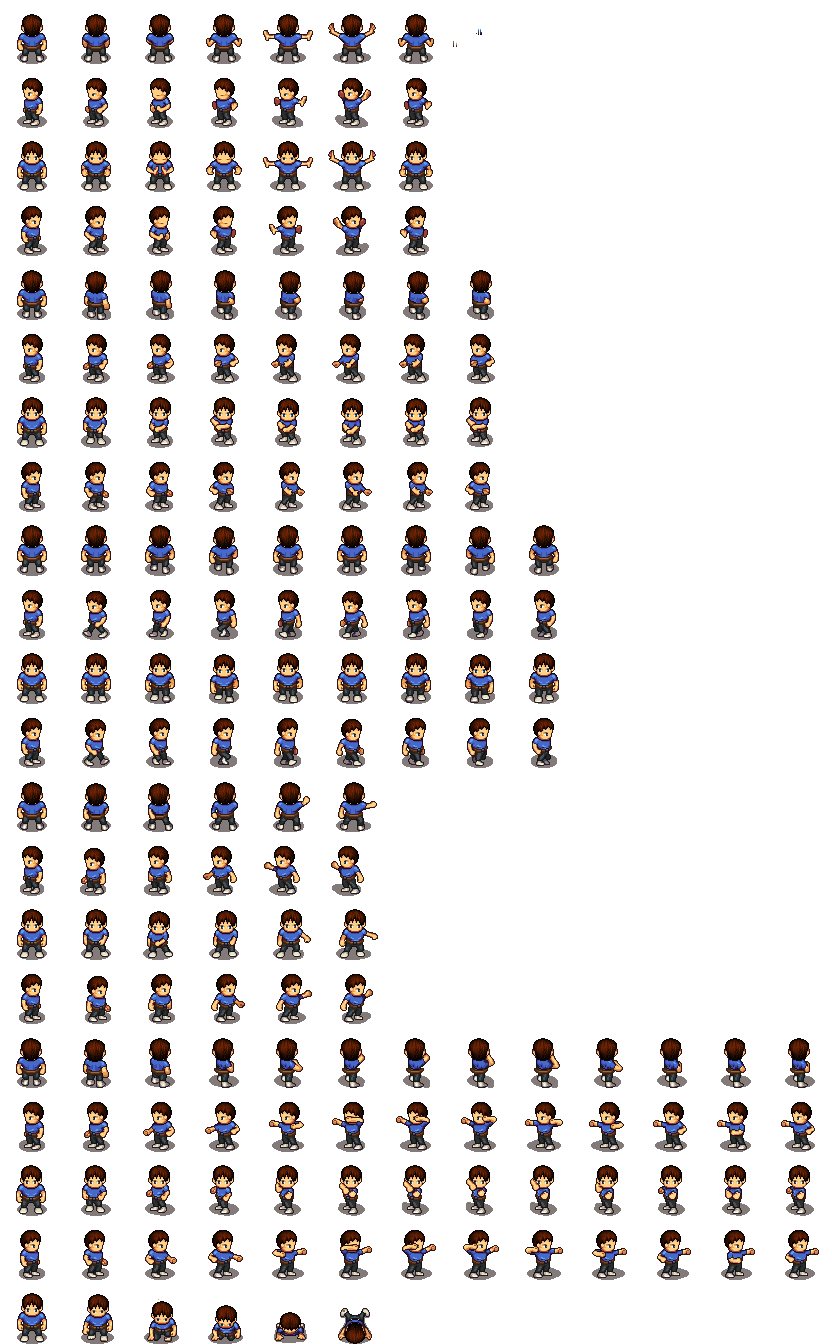
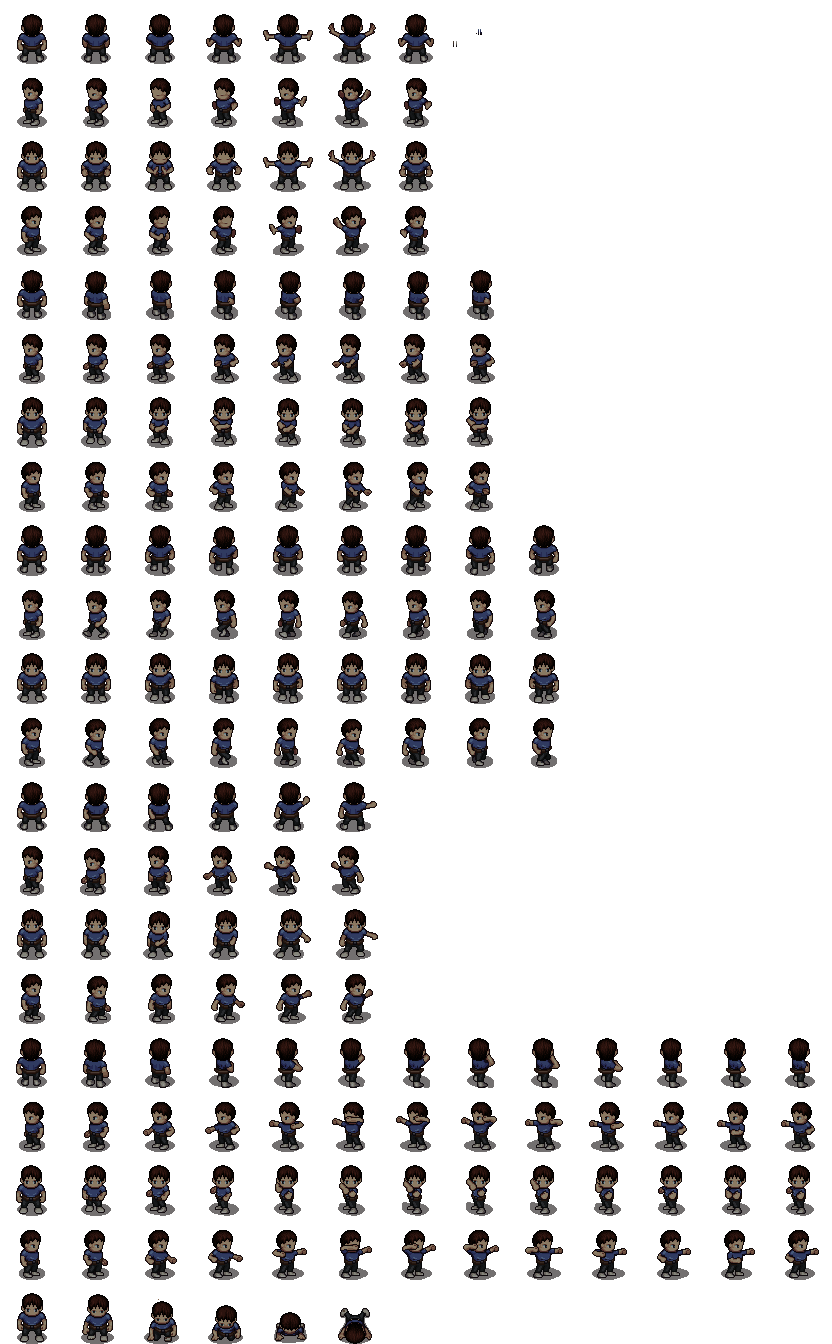
Fixed timing with a promise, As well as adding A new Wall sprite and adjusting the saturation of the player model

diff --git a/src/js/Rooms.js b/src/js/Rooms.js
@@ -6,61 +6,77 @@ const WAITTIME = ((1/FADERATE)/60)*1000; // gives the number of frames it will t
 
 // Callback function, simply determines whether it is the player ob colliding with door tile or not
 function upDoorCallback() {
-   fadeScreenNow();
-    playerMovement.moveSpeed = 0;
-   if(doorCreak.isPlaying() == false) doorCreak.play();
     if(!ISWAITING){
         ISWAITING = true;
-      setTimeout(() => {
-       moveCamera("up");
-       movePlayer("up");
-       ISWAITING = false;
-       playerMovement.moveSpeed = PLAYERSPEED;
-      },WAITTIME)
-  }
+        fadeScreenNow();
+        playerMovement.moveSpeed = 0;
+        if(doorCreak.isPlaying() == false) doorCreak.play();
+        waitForOpacityCondition(1000) // Wait for up to 5 seconds
+          .then(() => {
+            moveCamera("up");
+            movePlayer("up");
+            ISWAITING = false;
+            playerMovement.moveSpeed = PLAYERSPEED;
+          })
+          .catch((error) => {
+            console.error(error.message);
+          });
+    }
 }
 
 function rightDoorCallback() {
-   fadeScreenNow();
-   playerMovement.moveSpeed = 0;
-   if(doorCreak.isPlaying() == false) doorCreak.play();
-   if(!ISWAITING){
-         ISWAITING = true;
-       setTimeout(() => {
-        moveCamera("right");
-        movePlayer("right");
-        ISWAITING = false;
-        playerMovement.moveSpeed = PLAYERSPEED;
-       },WAITTIME)
-   }
+    if(!ISWAITING){
+        ISWAITING = true;
+        fadeScreenNow();
+        playerMovement.moveSpeed = 0;
+        if(doorCreak.isPlaying() == false) doorCreak.play();
+        waitForOpacityCondition(1000) // Wait for up to 5 seconds
+          .then(() => {
+            moveCamera("right");
+            movePlayer("right");
+            ISWAITING = false;
+            playerMovement.moveSpeed = PLAYERSPEED;
+          })
+          .catch((error) => {
+            console.error(error.message);
+          });
+    }
 }
 function leftDoorCallback() {
-    fadeScreenNow();
-    playerMovement.moveSpeed = 0;
-    if(doorCreak.isPlaying() == false) doorCreak.play();
     if(!ISWAITING){
-          ISWAITING = true;
-        setTimeout(() => {
-         moveCamera("left");
-         movePlayer("left");
-         ISWAITING = false;
-        playerMovement.moveSpeed = PLAYERSPEED;
-        },WAITTIME)
+        ISWAITING = true;
+        fadeScreenNow();
+        playerMovement.moveSpeed = 0;
+        if(doorCreak.isPlaying() == false) doorCreak.play();
+        waitForOpacityCondition(1000) // Wait for up to 5 seconds
+          .then(() => {
+            moveCamera("left");
+            movePlayer("left");
+            ISWAITING = false;
+            playerMovement.moveSpeed = PLAYERSPEED;
+          })
+          .catch((error) => {
+            console.error(error.message);
+          });
     }
 }
 function downDoorCallback() {
-    fadeScreenNow();
-    playerMovement.moveSpeed = 0;
-    if(doorCreak.isPlaying() == false) doorCreak.play();
     if(!ISWAITING){
         ISWAITING = true;
-      setTimeout(() => {
-       moveCamera("down");
-       movePlayer("down");
-       ISWAITING = false;
-       playerMovement.moveSpeed = PLAYERSPEED;
-      },WAITTIME)
-  }
+        fadeScreenNow();
+        playerMovement.moveSpeed = 0;
+        if(doorCreak.isPlaying() == false) doorCreak.play();
+        waitForOpacityCondition(1000) // Wait for up to 5 seconds
+          .then(() => {
+            moveCamera("down");
+            movePlayer("down");
+            ISWAITING = false;
+            playerMovement.moveSpeed = PLAYERSPEED;
+          })
+          .catch((error) => {
+            console.error(error.message);
+          });
+    }
 }
 
 // Class for managing the room layout

diff --git a/src/js/Camera.js b/src/js/Camera.js
@@ -2,6 +2,7 @@ const FADERATE = 0.025;
 const FADELAYER = 3;
 let HASFADEDIN = true;
 let HASFADEDOUT = true;
+let OPACITYEQUALSONE = false;
 function makeCameraFollowPlayer(){
     camera.x = player.x;
 	camera.y = player.y;
@@ -21,7 +22,6 @@ function createFadeScreen(){
 //Run constantly, If HASFADEDIN and HASFADEDOUT are false it will Fade the fadeScreen in over eveything. 
 // HASFADEDIN and HASFADEDOUT shouldn't be changed manually, use the fadeScreenNow function to reset them.
 function fadeInAndOut(ScreenSprite){
-    if (kb.presses('.')) {HASFADEDIN = false; HASFADEDOUT = false;}
     if (!HASFADEDIN){
         HASFADEDIN = fadeIn(ScreenSprite);
     }
@@ -37,6 +37,7 @@ function fadeIn(object){
     return false;
     }
     else {
+        OPACITYEQUALSONE = true;
         object.opacity = 1;
         return true;
     }
@@ -47,6 +48,7 @@ function fadeIn(object){
 function fadeOut(object){
     if(object.opacity >= 0){
         object.opacity = Math.max(object.opacity - FADERATE, 0);
+        OPACITYEQUALSONE = false;
         return false;
     }
     else {
@@ -59,7 +61,6 @@ function fadeOut(object){
 
 //Moves the camera in the direction specified. takes "up", "down", "left", "right" as arguments.
 function moveCamera(direction){
-    console.log("Moving camera");
     if (direction == "up") camera.y -= 1080;
     else if (direction == "down") camera.y += 1080;
     else if (direction == "left") camera.x -= 1920;

diff --git a/src/js/main.js b/src/js/main.js
@@ -5,3 +5,26 @@ function createMenuScreen() {
   object.collider = 'none';
   return object;
 }
+
+function waitForOpacityCondition(timeout) {
+    return new Promise((resolve, reject) => {
+      const startTime = Date.now();
+  
+      function checkCondition() {
+        // console.log("this is the Opacity: " + OPACITYEQUALSONE + "\n"+ "this is the variable: " + variable);
+        if (OPACITYEQUALSONE === true) {
+          resolve(OPACITYEQUALSONE);
+        } else if (Date.now() - startTime >= timeout) {
+          reject(new Error('Timeout waiting for condition'));
+        } else {
+          setTimeout(checkCondition, 1); // Adjust the interval as needed
+        }
+      }
+  
+      checkCondition();
+    });
+  }
+  
+  // Example usage
+
+  

diff --git a/sketch.js b/sketch.js
@@ -9,7 +9,7 @@ let MAINMENULOADED = true;
 let menuScreen;
 
 function preload() {
-	brickImage = loadImage('./assets/sand-brick-tileset-texture.png');
+	brickImage = loadImage('./assets/WallRoughDraft.png');
 	floorBoardImage = loadImage("assets/floortiles.png");
 	mainMenuImage = loadImage("assets/Menu_Screen_for_a_pixelated_Horror_game_named_Blink_Set_in_a_Haunted_Mansion.png")
 	doorImage=loadImage("assets/Door.png");
@@ -52,7 +52,6 @@ function draw() {
 	}
 	if(MAINMENULOADED == false){
 		fadeInAndOut(fadeScreen);
-		if (kb.presses('.')) fadeScreenNow();
 		movementSounds(player,footsteps);
 		playerMovement.handleInput();
 		enemyHandler();
